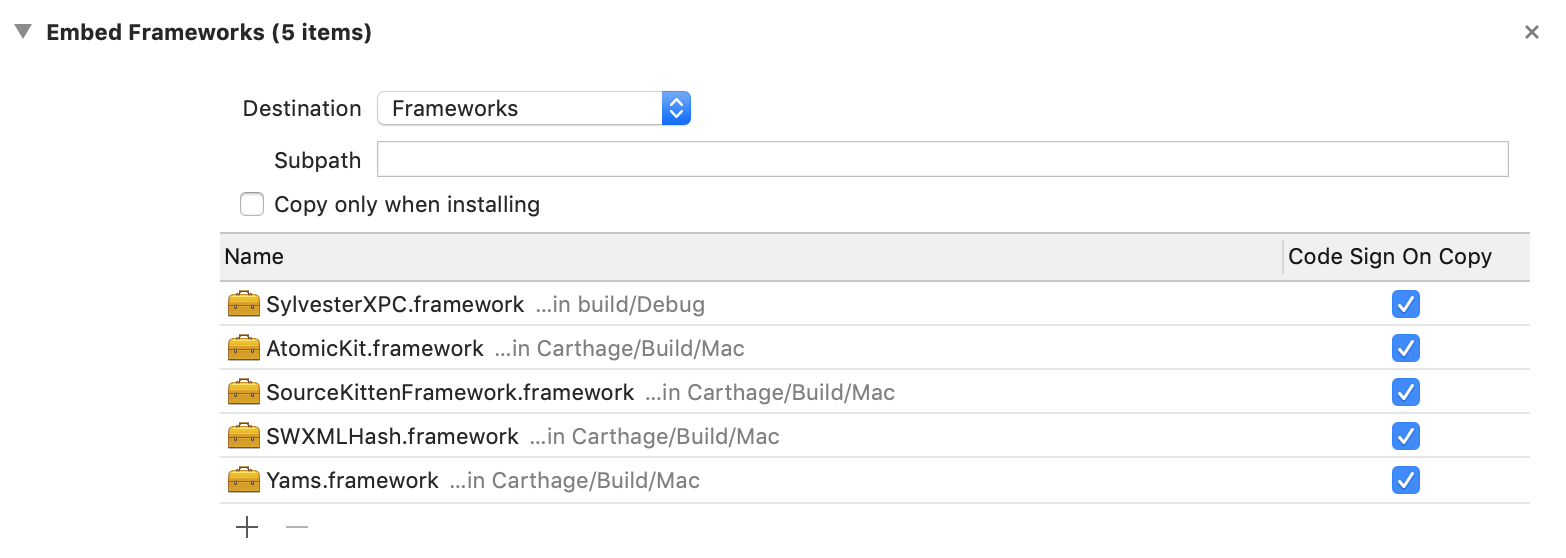
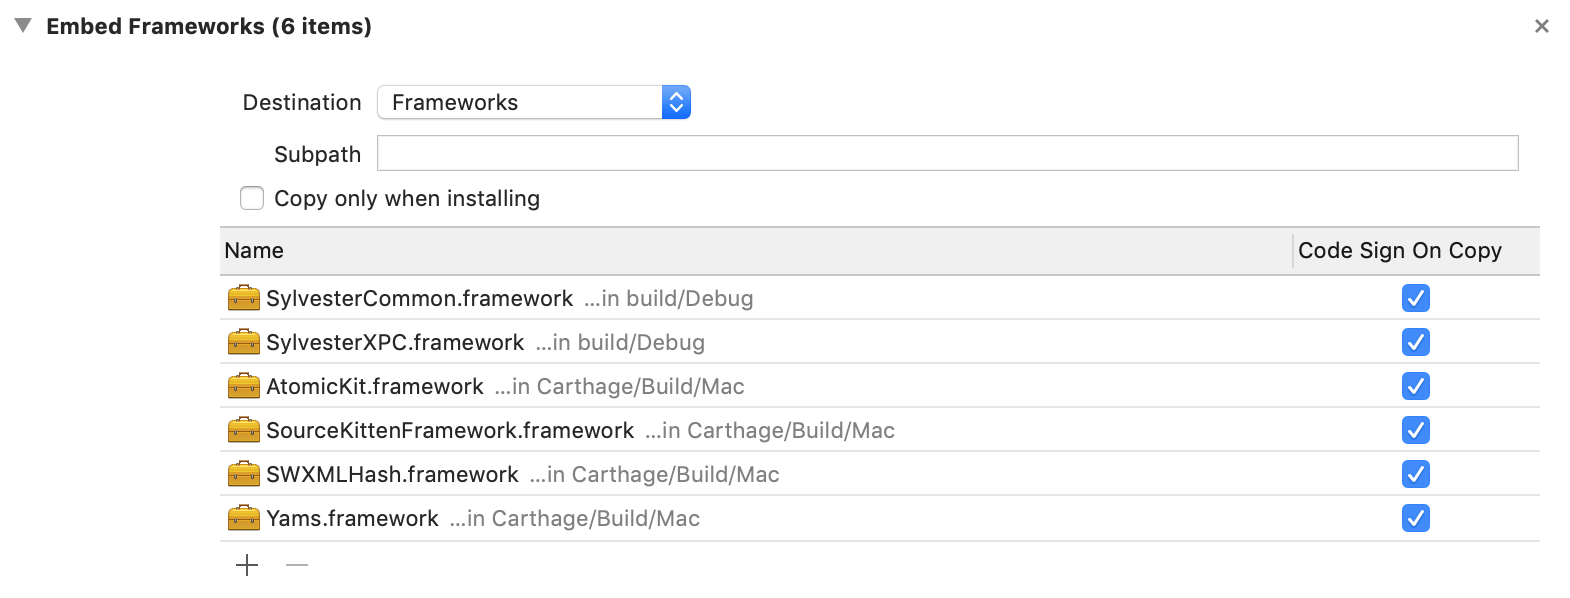
Update readme

diff --git a/README.md b/README.md
@@ -78,8 +78,9 @@ The `Sylvester` framework has two build configurations that differ in their meth
 Dependencies
 ============
 
-`Sylvester` depends on the following frameworks/libraries, so ensure they are also embedded in the _Embed Frameworks_ phase:
+`Sylvester`/`SylvesterXPC` depends on the following frameworks/libraries, so ensure they are also embedded in the _Embed Frameworks_ phase:
 
+ - `SylvesterCommon.framework`
  - `AtomicKit.framework`
  - `SourceKittenFramework.framework`
  - `SWXMLHash.framework`
